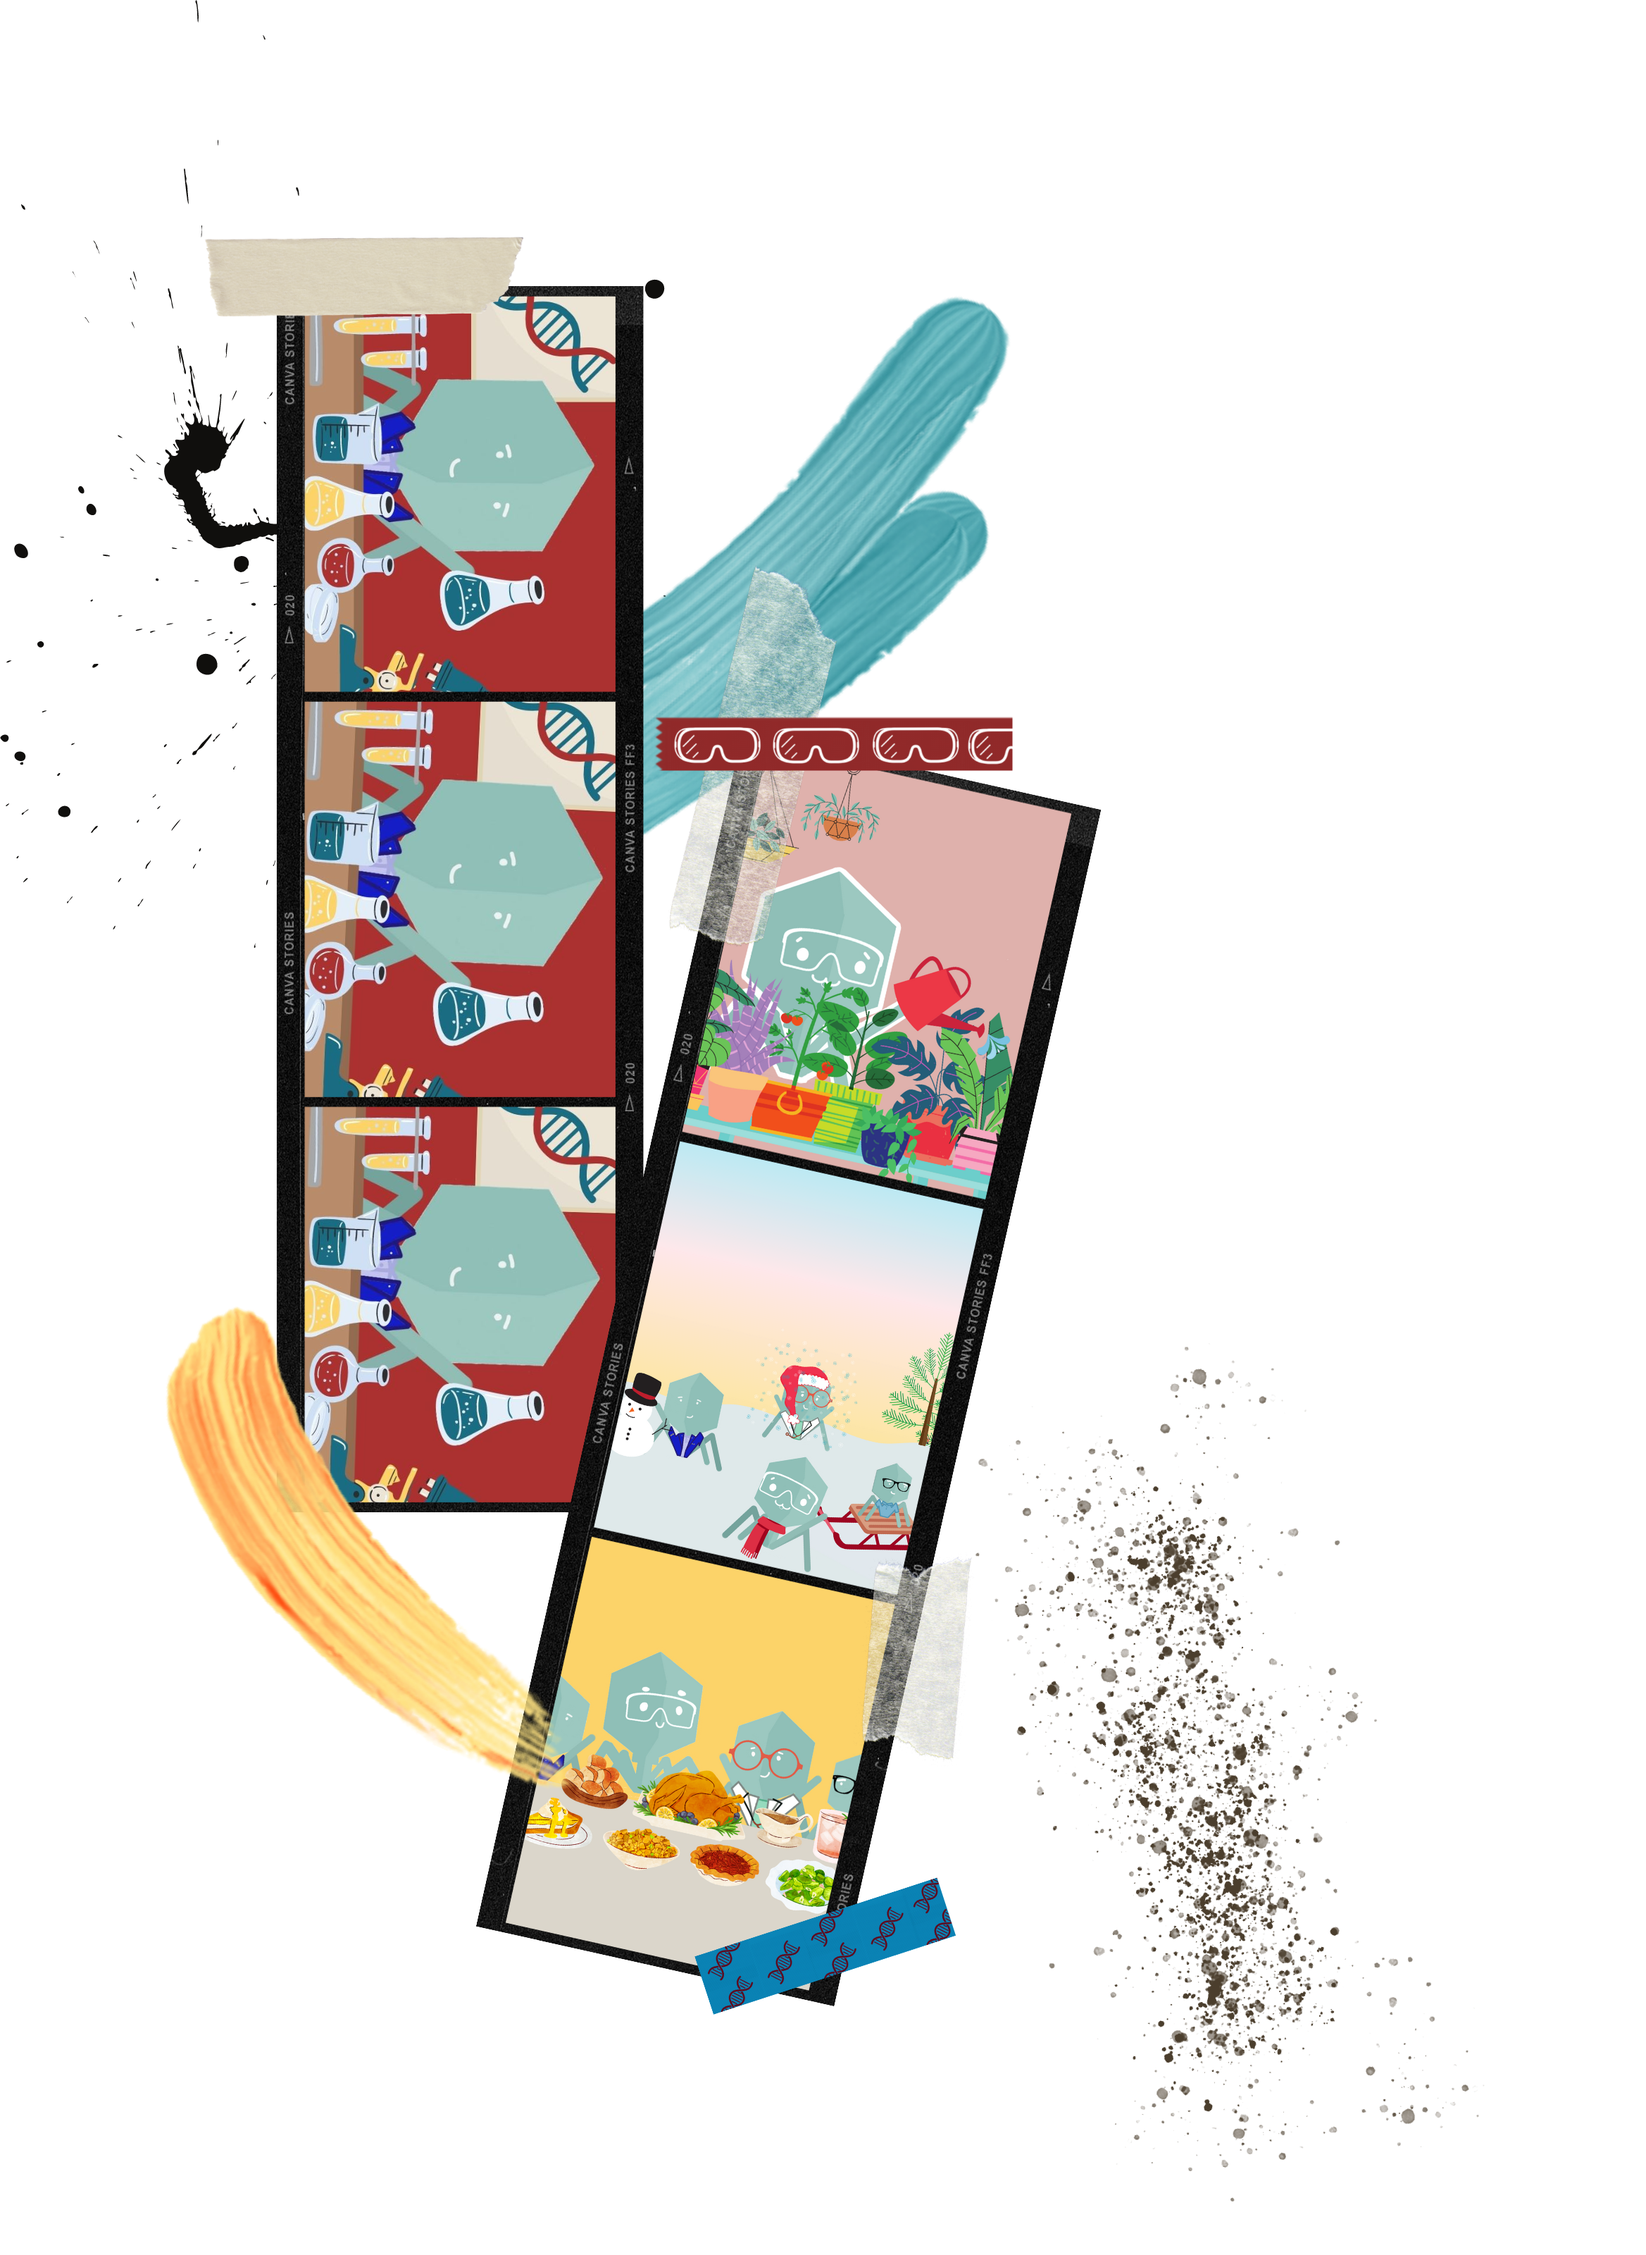
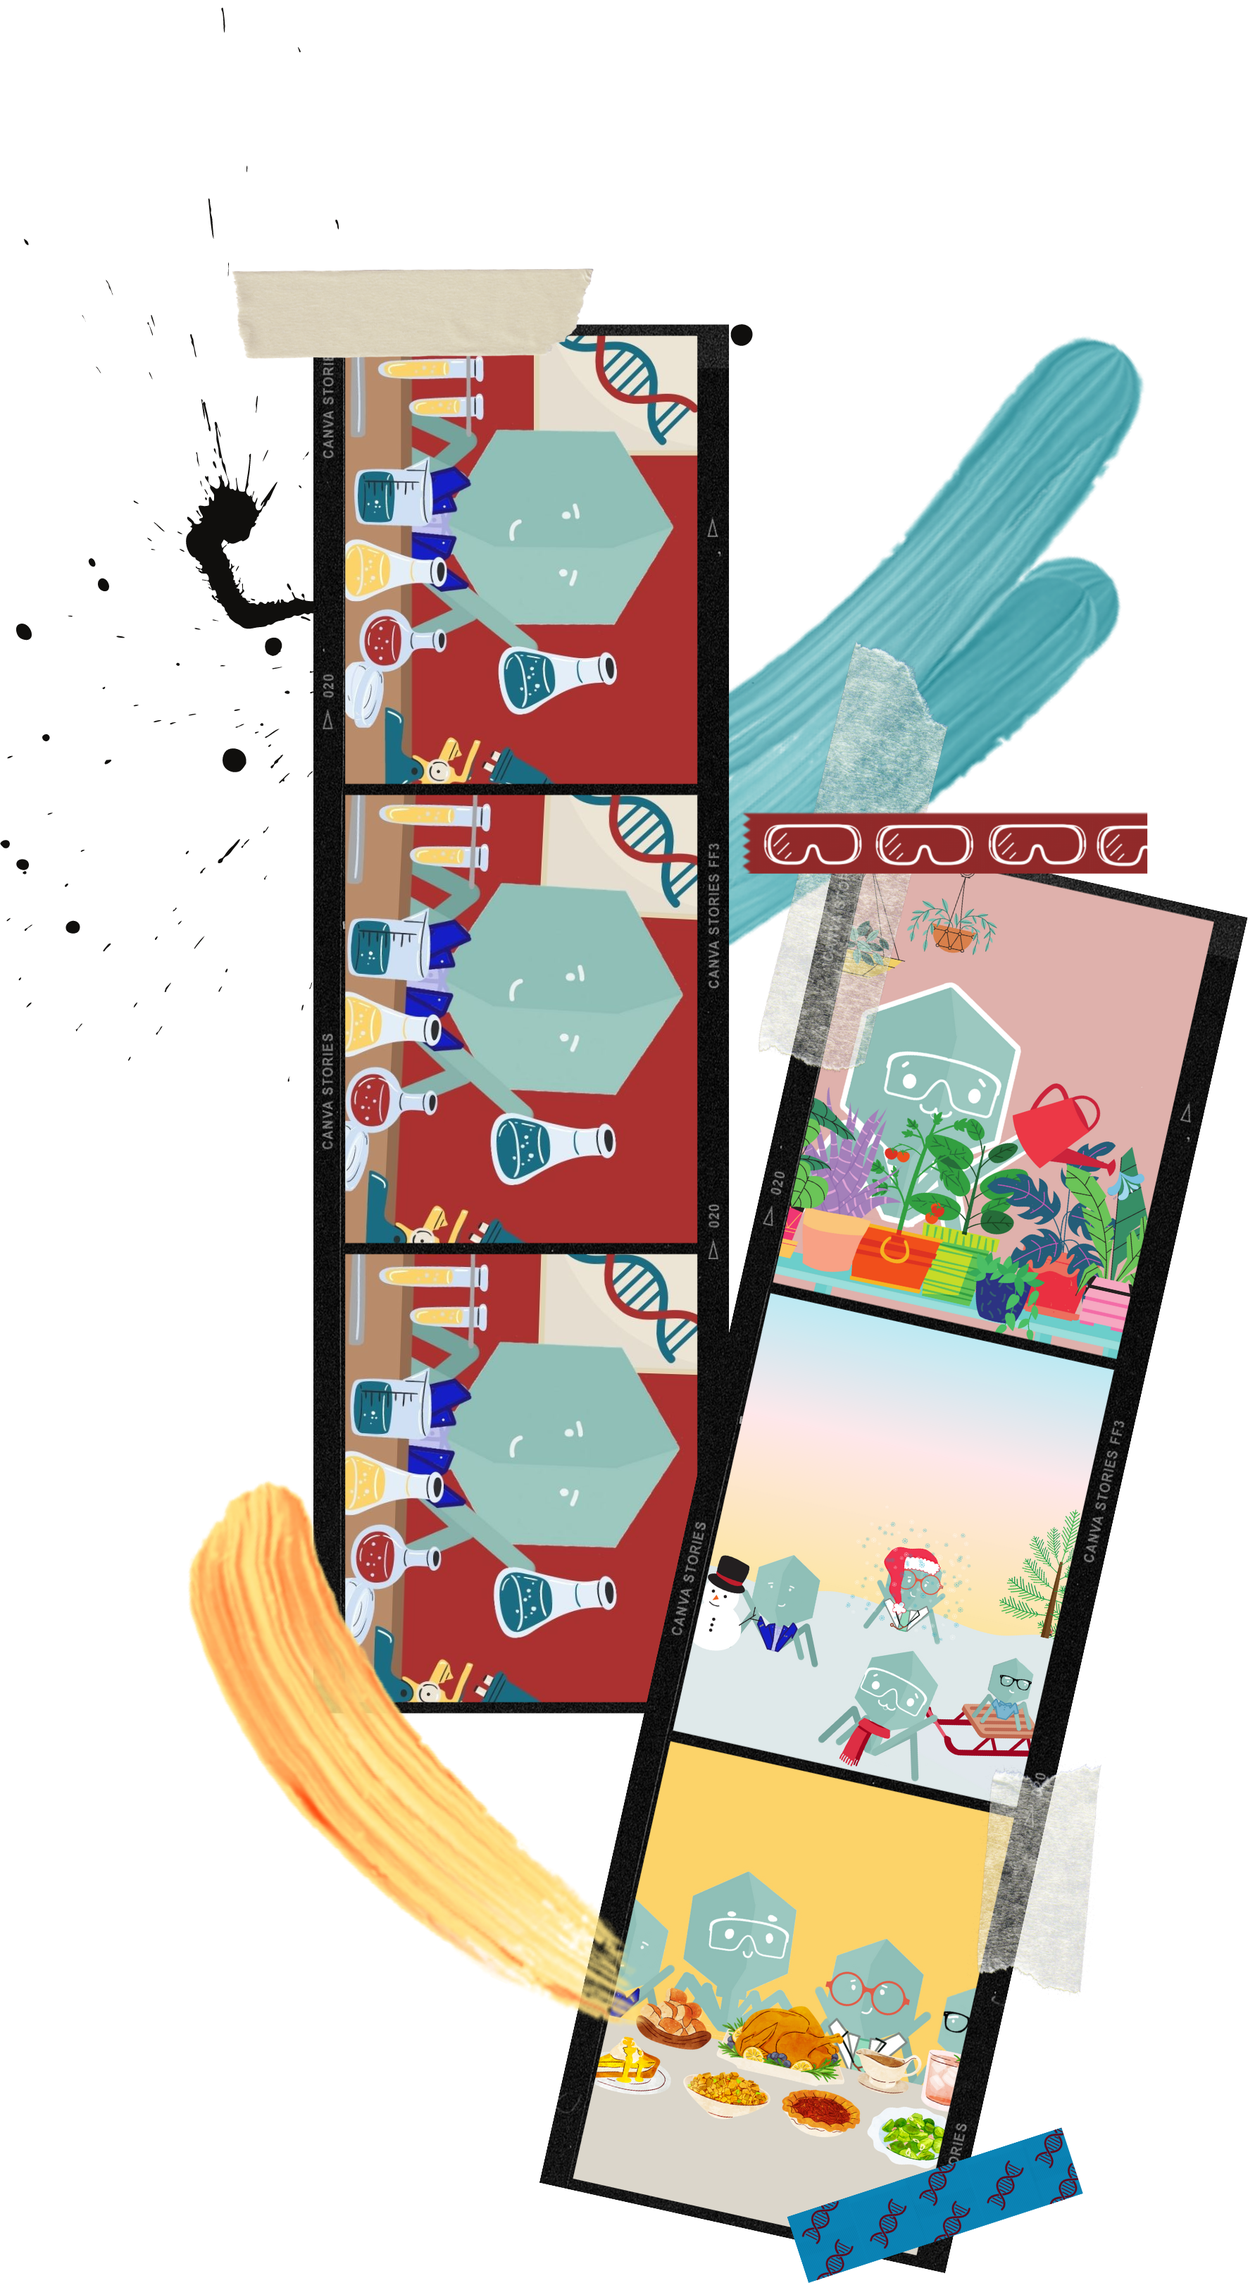
Final style changes

diff --git a/styles/Accordion.module.css b/styles/Accordion.module.css
@@ -11,7 +11,6 @@
   margin-bottom: 1rem;
   text-align: left;
   color: var(--theme-button-text);
-  transition: color 0.15s ease, border-color 0.15s ease;
 }
 
 .accordionItemButton {
@@ -23,8 +22,6 @@
   background-position: center center;
   background-repeat: no-repeat;
   border: none;
-  box-shadow: transparent; 
-  filter: brightness(1.4) drop-shadow(0 0 0.4rem rgba(0, 0, 0, 0.37));
   text-align: center;
   font-size: 16px;
   font-weight: bold;
@@ -50,14 +47,14 @@
   overflow-y: hidden;
   max-height: 0;
   padding: 0 1.5rem;
-  background-color: rgba(226, 226, 226, 0.9);
-  background-image: var(--accordion-panel-bg);
+  background-color: var(--description-bg-color); 
+
   box-shadow: 0 3px 12px rgba(0,0,0,0.2);
   font-weight: 600;
   font-size: 14px;
   font-family: var(--faq-answer-font);
   transform: translateY(-40px);
-  transition: 0.25s ease;
+  transition: all 0.25s ease;
 }
 
 .open .accordionItemPanel {
@@ -65,23 +62,21 @@
   margin-bottom: -1.5rem;
   padding: 3rem 1.5rem 1.5rem 1.5rem;
   background-color: var(--description-bg-color); 
-  background-image: var(--accordion-panel-bg);
+
   box-shadow: 0 8px 15px rgba(0,0,0,0.4);
   font-weight: 600;
   font-family: var(--faq-answer-font);
   color: var(--description-text-color); 
   transform: translateY(-40px);
-	transition: 0.3s ease;
+	transition: all 0.25s ease;
 }
 
 .answer {
   opacity: 0;
-  transition: 0.1s linear;
 }
 
 .open .answer {
   opacity: 1;
-  transition: 0.1s linear;
 }
 
 @media (min-width: 480px) {

diff --git a/pages/Volunteer.js b/pages/Volunteer.js
@@ -8,10 +8,10 @@ export default function Volunteer() {
       <div className={Volunteerstyles.wrapper}>
         <div className={Volunteerstyles.images}>
           <Image
-            src="/assets/website-elements.png"
-            alt="Miscellaneous elements"
-            width={2080}
-            height={2700}
+            src="/assets/stackedpictures.png"
+            alt="Stacked Pictures"
+            width={1000}
+            height={1000}
           />
         </div>
         <div className={Volunteerstyles.text}>
@@ -24,15 +24,14 @@ export default function Volunteer() {
             to the sign-up forms.
           </p>
           <div className={`${styles.grid} ${Volunteerstyles.grid}`}>
-            <a
+            {/* <a
               href="https://nextjs.org/docs"
               className={`${styles.card} ${Volunteerstyles.card}`}
             >
               <h3>Mentors &rarr;</h3>
-            </a>
-
+            </a> */}
             <a
-              href="https://nextjs.org/docs"
+              href="https://docs.google.com/forms/d/1aniD1QKdc0xJqJv_rhjLbtdWCeVxEZMTyYfxQTsVLXM/edit"
               className={`${styles.card} ${Volunteerstyles.card}`}
             >
               <h3>Volunteers &rarr;</h3>

diff --git a/styles/Volunteer.module.css b/styles/Volunteer.module.css
@@ -18,12 +18,14 @@
   flex-direction: row;
   align-items: center;
   justify-content: center;
-  max-width: 90%;
+  width: 90%;
+  padding: 0 20px;
 }
 
 .images {
   display: none;
-  max-width: 35%;
+  width: 700px;
+  height: 700px;
 }
 
 .text {
@@ -103,6 +105,9 @@
 }
 
 @media (min-width: 720px) {
+  .images{
+    display: flex;
+  }
   .card {
     height: 10rem;
     width: 20rem;
@@ -114,9 +119,6 @@
 }
 
 @media (min-width: 1024px) {
-  .images {
-    display: block;
-  }
   .text {
     width: 50%;
     margin-left: auto;

diff --git a/styles/Faq.module.css b/styles/Faq.module.css
@@ -31,10 +31,10 @@
 }
 .image{
   height: 1200px;
-  width: 600px;
+  width: 800px;
   background-image: url("../public/assets/strips.png");
-  background-size: cover;
-  background-position: left;
+  background-size: contain;
+  background-position: center;
   background-repeat: no-repeat;
 }
 

diff --git a/components/Footer.js b/components/Footer.js
@@ -14,7 +14,7 @@ export default function Footer() {
           biohack.ucr@gmail.com
         </a>
       </div>
-      Scrapbooked with ❤ from the Biohack team.
+      Scrapbooked with ❤ and ☕ from the Biohack team.
     </div>
   );
 }

diff --git a/styles/Common.module.css b/styles/Common.module.css
@@ -4,7 +4,7 @@
   flex-direction: column;
   justify-content: center;
   align-items: center;
-  background-color: var(--theme-brown);
+  background-color: var(--theme-offwhite);
   background-image: var(--container-bg);
 }
 
